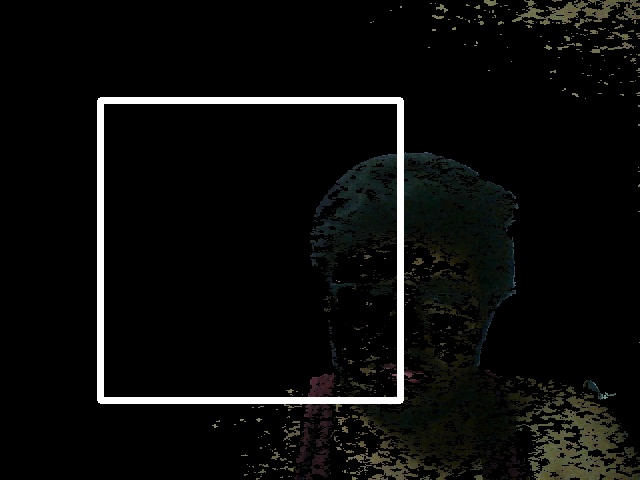
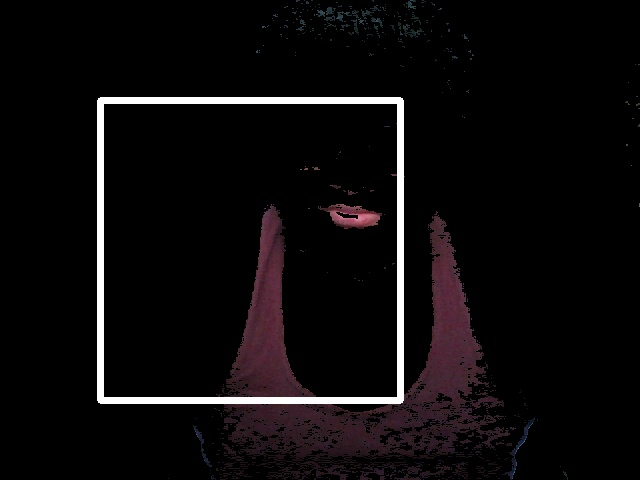
working

diff --git a/templates/live_segment.html b/templates/live_segment.html
@@ -22,7 +22,7 @@
 </form> 
 
 {% if submitbutton %}
-    <img src = "{% url 'gisa:live_segment_temp' %}" alt="original image">
+    <img src = "{% url 'gisa:live_segment_temp' %}" alt="original image" id = "seg_image">
 {% endif %}
 
 <!-- {% if image_show.url %}
@@ -55,7 +55,7 @@
     el.src = imgURL + queryString;  
     }
 
-    $('.slider').change( function(e) {
+    $('.slider').on("input", function(e) {
         var h_v_h = document.getElementById("myRangeHh").value;
         var s_v_h = document.getElementById('myRangeSh').value;
         var v_v_h = document.getElementById('myRangeVh').value;

diff --git a/gisa/views.py b/gisa/views.py
@@ -518,53 +518,68 @@ def stream_func(H_l,S_l,V_l,H_h,S_h,V_h):
 
                 
 def segment_live(request):
+    global H_l,S_l,V_l,H_h,S_h,V_h
+    global H_l_old,S_l_old,V_l_old,H_h_old,S_h_old,V_h_old
+    H_l_old = 0
+    S_l_old = 0
+    V_l_old = 0
+    H_h_old = 255
+    S_h_old = 255
+    V_h_old = 255
     try:
-        if request.method == 'POST' :
-            print('inside request=post')
-            return StreamingHttpResponse(stream_normal(), content_type="multipart/x-mixed-replace; boundary=frame")
-        elif request.is_ajax() :
-            print("ajax one!")
-            global H_l,S_l,V_l,H_h,S_h,V_h
-            H_l = request.GET.get('H_l')
-            S_l = request.GET.get('S_l')
-            V_l = request.GET.get('V_l')
-            H_h = request.GET.get('H_h')
-            S_h = request.GET.get('S_h')
-            V_h = request.GET.get('V_h')
-            # if H_l is None:
-            #     H_l = 0
-            # if S_l is None:
-            #     S_l = 0
-            # if V_l is None:
-            #     V_l = 0
-            # if H_h is None:
-            #     H_h = 255
-            # if S_h is None:
-            #     S_h = 255
-            # if V_h is None:
-            #     V_h = 255 
-            
-            if H_l is not None:
-                if H_l != 0:
-                    H_l = int(H_l)
-            if S_l is not None:
-                if S_l != 0:
-                    S_l = int(S_l)
-            if V_l is not None:
-                if V_l != 0:
-                    V_l = int(V_l)
-            if H_h is not None:
-                if H_h != 0:
-                    H_h = int(H_h)
-            if S_h is not None:
-                if S_h != 0:
-                    S_h = int(S_h)
-            if V_h is not None:
-                if V_h != 0:
-                    V_h = int(V_h)
-                    
-
-            return StreamingHttpResponse(stream_func(H_l,S_l,V_l,H_h,S_h,V_h), content_type="multipart/x-mixed-replace; boundary=frame")
+        # if request.method == 'POST' :
+        #     print('inside request=post')
+        #     return StreamingHttpResponse(stream_normal(), content_type="multipart/x-mixed-replace; boundary=frame")
+        # elif request.is_ajax() :
+        print("ajax one!")
+        H_l = request.GET.get('H_l')
+        S_l = request.GET.get('S_l')
+        V_l = request.GET.get('V_l')
+        H_h = request.GET.get('H_h')
+        S_h = request.GET.get('S_h')
+        V_h = request.GET.get('V_h')
+        if H_l is None:
+            H_l = H_l_old
+        if S_l is None:
+            S_l = S_l_old
+        if V_l is None:
+            V_l = V_l_old
+        if H_h is None:
+            H_h = H_h_old
+        if S_h is None:
+            S_h = S_h_old
+        if V_h is None:
+            V_h = V_h_old
+        
+        if H_l is not None:
+            if H_l != 0:
+                H_l = int(H_l)
+                H_l_old = H_l
+        if S_l is not None:
+            if S_l != 0:
+                S_l = int(S_l)
+                S_l_old = S_l
+        if V_l is not None:
+            if V_l != 0:
+                V_l = int(V_l)
+                V_l_old = V_l
+        if H_h is not None:
+            if H_h != 0:
+                H_h = int(H_h)
+                H_h_old = H_h
+        if S_h is not None:
+            if S_h != 0:
+                S_h = int(S_h)
+                S_h_old = S_h
+        if V_h is not None:
+            if V_h != 0:
+                V_h = int(V_h)
+                V_h_old = V_h
+          
+        # if H_l is None:
+        #     return StreamingHttpResponse(stream_normal(),content_type="multipart/x-mixed-replace; boundary=frame") 
+        
+        return StreamingHttpResponse(stream_func(H_l,S_l,V_l,H_h,S_h,V_h), content_type="multipart/x-mixed-replace; boundary=frame")
 
     except Exception as e:  # This is bad! replace it with proper handling
         print(e)
